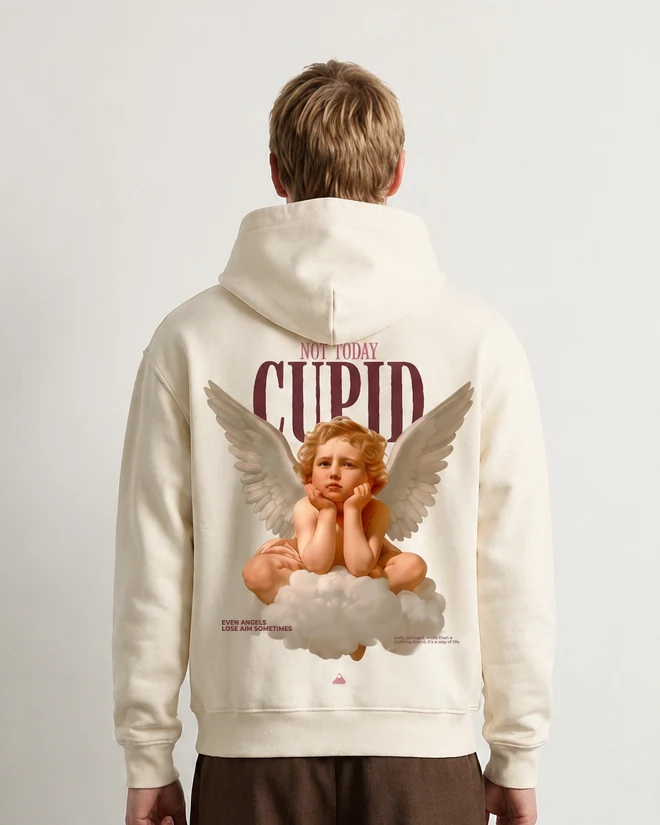
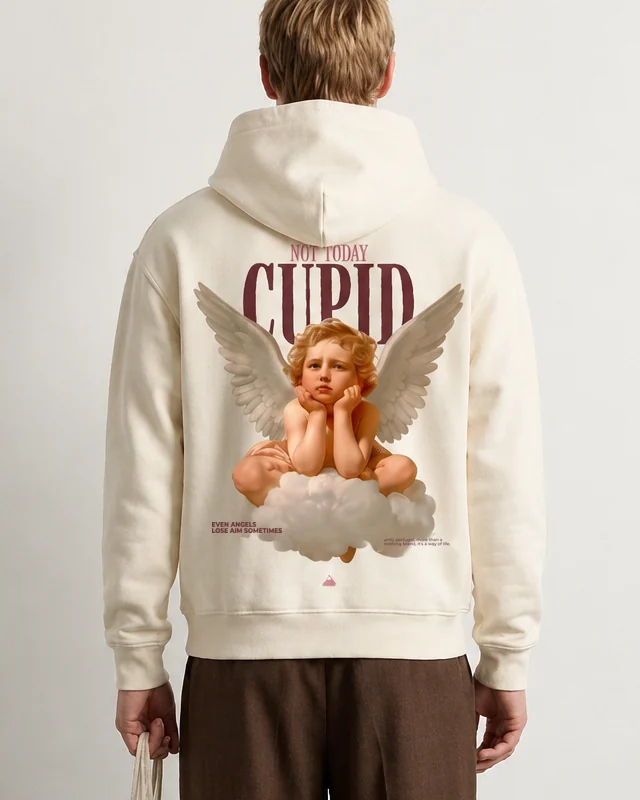
Hoodie Not Today, Cupid: repor a foto completa
Claude-Session: https://claude.ai/code/session_012KEDmSFA6KfqgrTmNn1gvj

diff --git a/notcupid.html b/notcupid.html
@@ -70,7 +70,7 @@
 <main class="wrap">
   <nav class="migalhas rotulo" aria-label="Caminho"><a href="./#loja">Loja</a><span>/</span><span>Not Today, Cupid · Hoodie</span></nav>
   <div class="produto" data-id="notcupid" data-nome="Not Today, Cupid · Hoodie" data-preco="49,90€" data-img="notcupid-card.webp" data-esgotado="false">
-    <div class="galeria"><figure style="grid-column:1 / -1"><img src="notcupid-hoodie.webp" alt="Hoodie Not Today, Cupid vista de costas, com o querubim estampado"></figure><figure style="grid-column:1 / -1"><img src="notcupid-design.webp" alt="Design do estampado Not Today, Cupid: o querubim sobre a nuvem e a frase Even angels lose aim sometimes" loading="lazy"></figure></div>
+    <div class="galeria"><figure style="grid-column:1 / -1"><img src="notcupid-hoodie.webp" alt="Hoodie Not Today, Cupid vista de costas, com o querubim estampado" style="object-position:center 30%"></figure><figure style="grid-column:1 / -1"><img src="notcupid-design.webp" alt="Design do estampado Not Today, Cupid: o querubim sobre a nuvem e a frase Even angels lose aim sometimes" loading="lazy"></figure></div>
     <div class="info">
       <span class="rotulo" style="color:var(--grey)">Hoodie cor de cru · Capítulo II</span>
       <h1>Not Today, Cupid</h1>

diff --git a/site.css b/site.css
@@ -255,7 +255,7 @@ h1.intro-nome { margin: 0; }
 .etiqueta.escura, .estado.escura { background: var(--ink); color: var(--paper); }
 .drop { display: grid; grid-template-columns: minmax(0, 1.05fr) minmax(0, 1fr); background: var(--stone); }
 .drop-foto { display: block; aspect-ratio: 4 / 5; max-width: 100%; overflow: hidden; }
-.drop-foto img { object-position: center 20%; transition: transform 1.2s cubic-bezier(.2,.7,.2,1); }
+.drop-foto img { object-position: center 28%; transition: transform 1.2s cubic-bezier(.2,.7,.2,1); }
 .drop-foto:hover img { transform: scale(1.03); }
 .drop-texto { display: flex; flex-direction: column; justify-content: center; align-items: flex-start; gap: 16px; padding: 56px clamp(24px, 6vw, 96px); min-width: 0; }
 .drop-texto .rotulo { color: var(--accent); }
